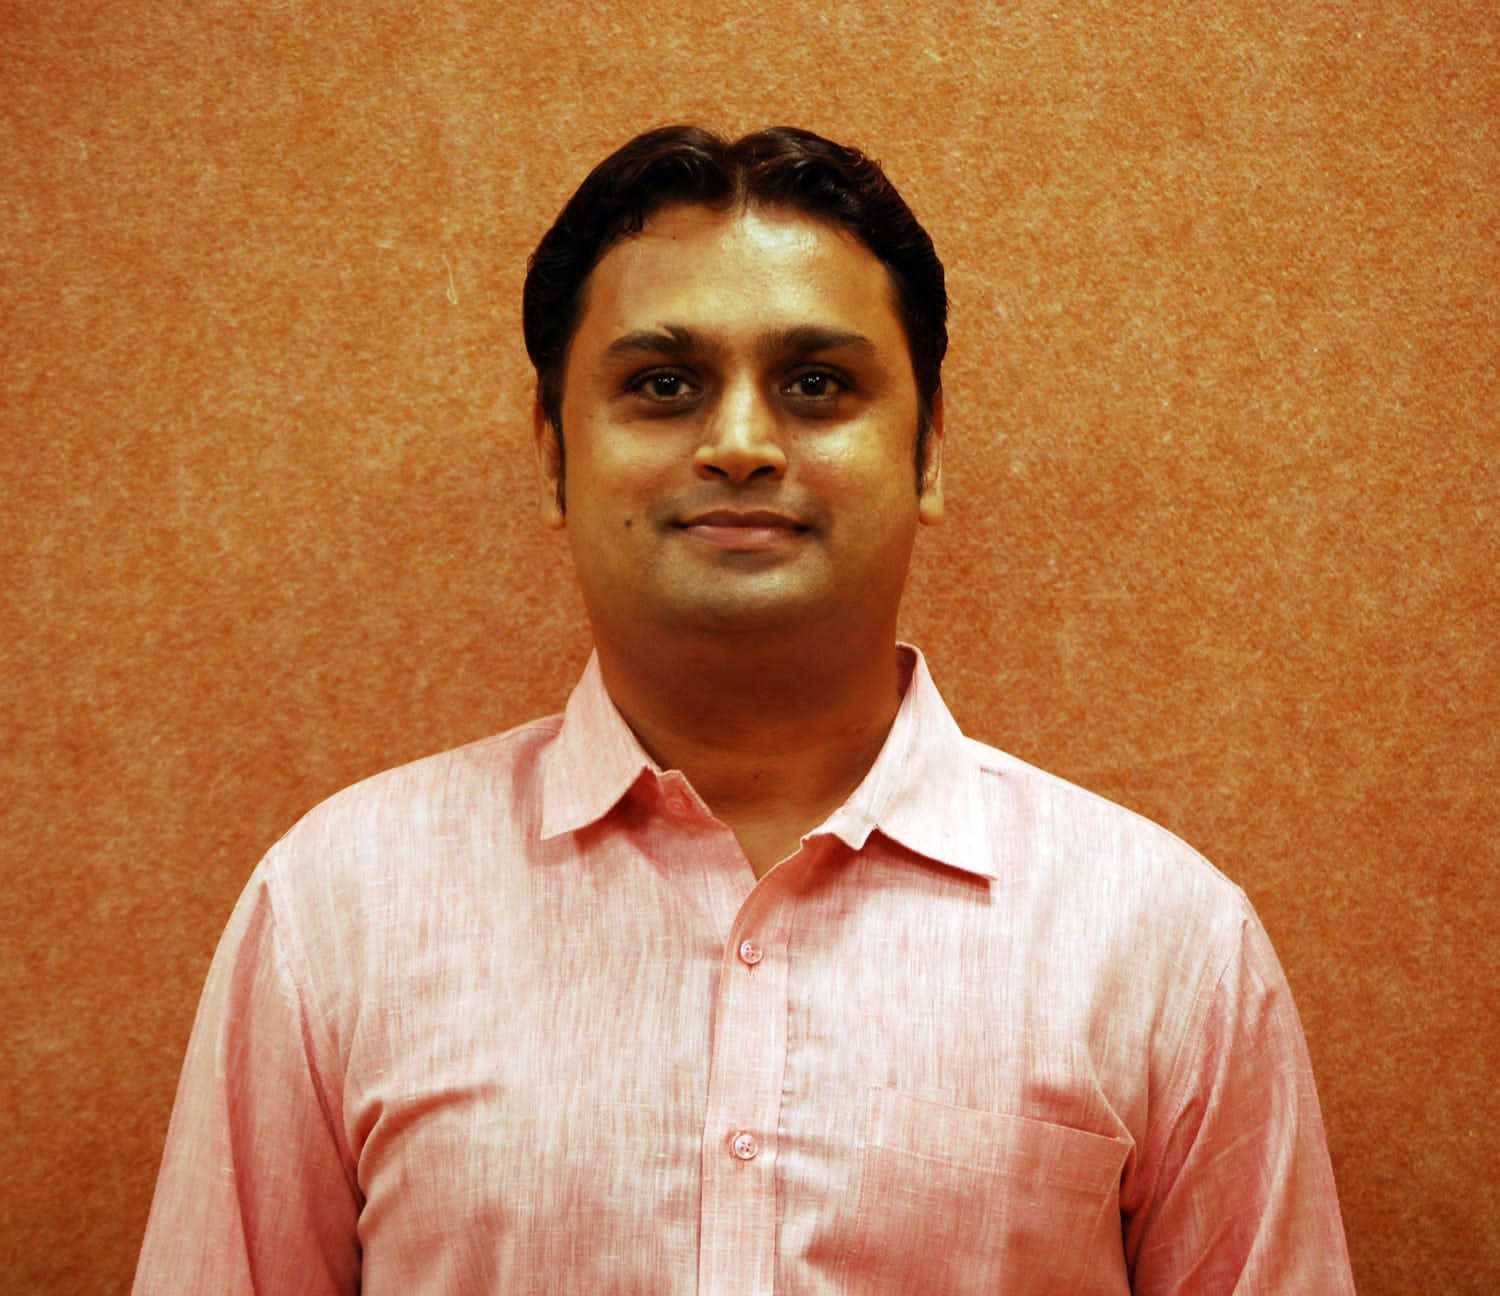
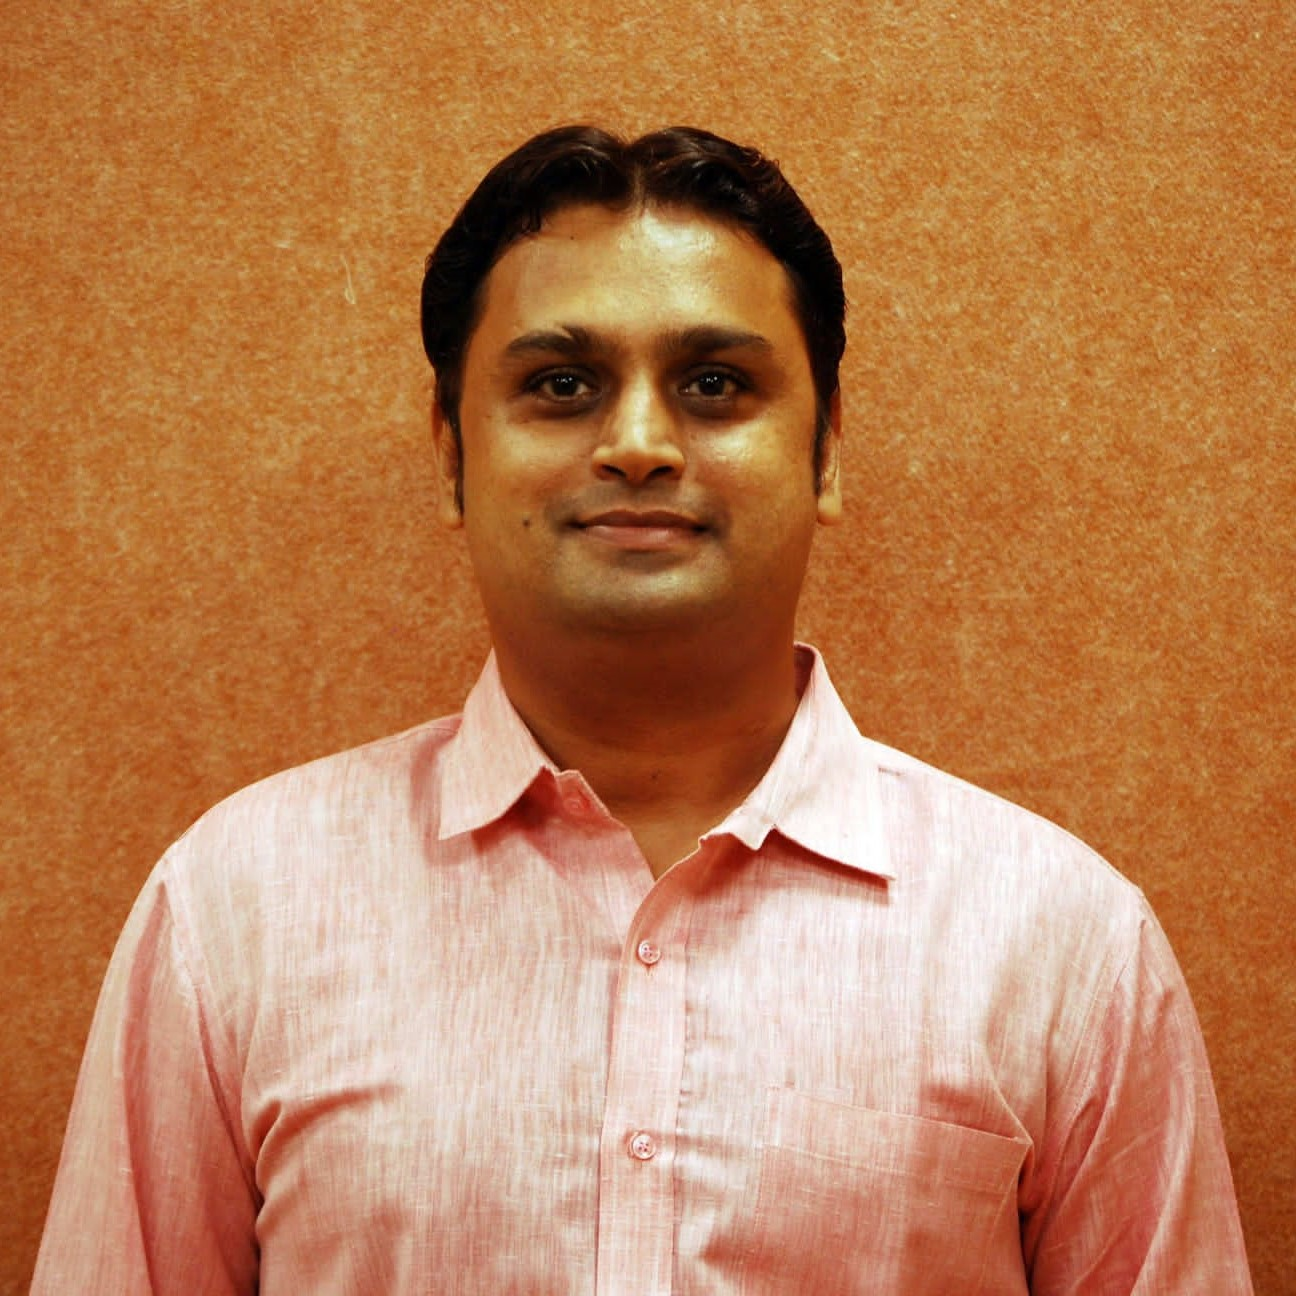
faculty

diff --git a/team.html b/team.html
@@ -62,7 +62,7 @@
                         <a href="index.html" class="nav-item nav-link">Events</a>
                         <a href="index.html#contactUs" class="nav-item nav-link">Contact Us</a>
                     </div>
-                    <!-- <a href="https://htmlcodex.com/startup-company-website-template" class="btn btn-secondary text-light rounded-pill py-2 px-4 ms-3">Join IEEE CS</a> -->
+                    <a href=""  style="background-color: #F9A31A;"  class="btn text-light rounded-pill py-2 px-4 ms-3">Join IEEE</a>
                 </div>
             </nav>
 
@@ -81,9 +81,112 @@
         <!-- Navbar & Hero End -->
 
 
-        <!-- Team Start -->
+<!-- Faculty Team Start -->
+<div class="container-fluid py-5">
+    <div class="container-fluid px-lg-5">
+        <div class="section-title position-relative text-center mb-5 pb-2 wow fadeInUp" data-wow-delay="0.1s">
+            <h6 class="position-relative d-inline ps-4" style="color: #F9A31A;">Our Team</h6>
+            <h2 class="mt-2">Meet Our Faculty Members</h2>
+        </div>
+        <div class="row g-4">
+            <div class="col-lg-4 col-md-6 wow fadeInUp" data-wow-delay="0.1s">
+                <div class="team-item">
+                    <div class="d-flex">
+                        <div class="flex-shrink-0 d-flex flex-column align-items-center mt-4 pt-5"
+                            style="width: 75px;">
+                            <a class="btn btn-square bg-white my-1" href="" style="color: #F9A31A;"> <i
+                                    class="fab fa-facebook-f"></i></a>
+                            <a class="btn btn-square  bg-white my-1" href="" style="color: #F9A31A;"><i
+                                    class="fab fa-twitter"></i></a>
+                            <a class="btn btn-square  bg-white my-1" href="" style="color: #F9A31A;"><i
+                                    class="fab fa-instagram"></i></a>
+                            <a class="btn btn-square bg-white my-1" href="" style="color: #F9A31A;"><i
+                                    class="fab fa-linkedin-in"></i></a>
+                        </div>
+                        <img class="img-fluid rounded w-100" src="img/Keyur sir.JPG" alt="">
+                    </div>
+                    <div class="px-4 py-3">
+                        <h5 class="fw-bold m-0">Dr. Keyur Brahmbhatt</h5>
+                        <small>Faculty Advisor of Computer Scoiety IEEE BVM SB</small>
+                    </div>
+                </div>
+            </div>
+            <div class="col-lg-4 col-md-6 wow fadeInUp" data-wow-delay="0.3s">
+                <div class="team-item">
+                    <div class="d-flex">
+                        <div class="flex-shrink-0 d-flex flex-column align-items-center mt-4 pt-5"
+                            style="width: 75px;">
+                            <a class="btn btn-square bg-white my-1" href="" style="color: #F9A31A;"> <i
+                                    class="fab fa-facebook-f"></i></a>
+                            <a class="btn btn-square  bg-white my-1" href="" style="color: #F9A31A;"><i
+                                    class="fab fa-twitter"></i></a>
+                            <a class="btn btn-square  bg-white my-1" href="" style="color: #F9A31A;"><i
+                                    class="fab fa-instagram"></i></a>
+                            <a class="btn btn-square bg-white my-1" href="" style="color: #F9A31A;"><i
+                                    class="fab fa-linkedin-in"></i></a>
+                        </div>
+                        <img class="img-fluid rounded w-100" src="img/Darshan sir.JPG" alt="">
+                    </div>
+                    <div class="px-4 py-3">
+                        <h5 class="fw-bold m-0">Dr. Darshan Dalwadi</h5>
+                        <small>Branch Counsellor IEEE BVM SB</small>
+                    </div>
+                </div>
+            </div>
+            <div class="col-lg-4 col-md-6 wow fadeInUp" data-wow-delay="0.6s">
+                <div class="team-item">
+                    <div class="d-flex">
+                        <div class="flex-shrink-0 d-flex flex-column align-items-center mt-4 pt-5"
+                            style="width: 75px;">
+                            <a class="btn btn-square bg-white my-1" href="" style="color: #F9A31A;"> <i
+                                    class="fab fa-facebook-f"></i></a>
+                            <a class="btn btn-square  bg-white my-1" href="" style="color: #F9A31A;"><i
+                                    class="fab fa-twitter"></i></a>
+                            <a class="btn btn-square  bg-white my-1" href="" style="color: #F9A31A;"><i
+                                    class="fab fa-instagram"></i></a>
+                            <a class="btn btn-square bg-white my-1" href="" style="color: #F9A31A;"><i
+                                    class="fab fa-linkedin-in"></i></a>
+                        </div>
+                        <img class="img-fluid rounded w-100" src="img/JMR sir.JPG" alt="">
+                    </div>
+                    <div class="px-4 py-3">
+                        <h5 class="fw-bold m-0">Dr. Jagdish Rathod</h5>
+                        <small>Faculty Advisor IEEE BVM SB</small>
+                    </div>
+                </div>
+            </div>
+
+            <div class="col-lg-4 col-md-6 wow fadeInUp" data-wow-delay="0.1s">
+                <div class="team-item">
+                    <div class="d-flex">
+                        <div class="flex-shrink-0 d-flex flex-column align-items-center mt-4 pt-5"
+                            style="width: 75px;">
+                            <a class="btn btn-square bg-white my-1" href="" style="color: #F9A31A;"> <i
+                                    class="fab fa-facebook-f"></i></a>
+                            <a class="btn btn-square  bg-white my-1" href="" style="color: #F9A31A;"><i
+                                    class="fab fa-twitter"></i></a>
+                            <a class="btn btn-square  bg-white my-1" href="" style="color: #F9A31A;"><i
+                                    class="fab fa-instagram"></i></a>
+                            <a class="btn btn-square bg-white my-1" href="" style="color: #F9A31A;"><i
+                                    class="fab fa-linkedin-in"></i></a>
+                        </div>
+                        <img class="img-fluid rounded w-100" src="img/Shimpi sir.JPG" alt="">
+                    </div>
+                    <div class="px-4 py-3">
+                        <h5 class="fw-bold m-0">Dr. Mukesh Shimpi</h5>
+                        <small>Faculty Advisor IEEE BVM SB</small>
+                    </div>
+                </div>
+            </div>
+        </div>
+    </div>
+</div>
+<!--Faculty Team End -->
+
+
+        <!-- Core Team Start -->
         <div class="container-fluid py-5">
-            <div class="container-xxl px-lg-5">
+            <div class="container-fluid px-lg-5">
                 <div class="section-title position-relative text-center mb-5 pb-2 wow fadeInUp" data-wow-delay="0.1s">
                     <h6 class="position-relative d-inline ps-4" style="color: #F9A31A;">Our Team</h6>
                     <h2 class="mt-2">Meet Our Team Members</h2>
@@ -173,7 +276,7 @@
                                 <img class="img-fluid rounded w-100" src="img/Vedant Parmar.jpg" alt="">
                             </div>
                             <div class="px-4 py-3">
-                                <h5 class="fw-bold m-0">Pari Patel</h5>
+                                <h5 class="fw-bold m-0">Vedant Parmar</h5>
                                 <small>Joint-Secretary</small>
                             </div>
                         </div>
@@ -389,7 +492,7 @@
                 </div>
             </div>
         </div>
-        <!-- Team End -->
+        <!--Core Team End -->
 
 
         <!-- Footer Start -->

diff --git a/css/style.css b/css/style.css
@@ -46,9 +46,18 @@ h6,
 
 
 /*** Button ***/
+
+
+.btn:hover{
+    color: var(--dark) !important;
+    background-color: white !important;
+    transition: .3s;
+    outline: 1.5px solid #F9A31A;
+}
 .btn {
     font-weight: 500;
     transition: .5s;
+    
 }
 
 .btn-square {
@@ -80,6 +89,7 @@ h6,
 
 /*** Navbar ***/
 .navbar-light .navbar-nav .nav-link {
+    font-size: 20px !important;
     position: relative;
     margin-left: 25px;
     padding: 35px 0;
@@ -90,7 +100,7 @@ h6,
 
 .sticky-top.navbar-light .navbar-nav .nav-link {
     padding: 20px 0;
-    color: var(--dark) !important;
+    /* color: var(--dark) !important; */
 }
 
 .navbar-light .navbar-nav .nav-link:hover,
@@ -103,12 +113,12 @@ h6,
 }
 
 .navbar-light .navbar-brand img {
-    max-height: 80px;
+    max-height: 85px;
     transition: .5s;
 }
 
 .sticky-top.navbar-light .navbar-brand img {
-    max-height: 45px;
+    max-height: 65px;
 }
 
 @media(max-width:500px){
@@ -523,7 +533,40 @@ section.contact-us {
     background: var(--light);
 }
 
+
 /*** Team ***/
+@media(max-width:500px){
+    .team-item{
+        max-width: 80% !important;
+    }
+}
+@media(max-width:400px){
+    .team-item{
+        max-width: 80% !important;
+    }
+}
+@media(max-width:376px){
+    .team-item{
+        width: 80% !important;
+        
+    }
+}
+@media(max-width:1400px){
+    .team-item{
+        max-width: 90% !important;
+    }
+}
+@media(max-width:2735px){
+    .team-item{
+        max-width: 90% !important;
+    }
+}
+@media(max-width:1000px){
+    .team-item{
+        max-width: 85% !important;
+    }
+}
+
 .team-item {
     position: relative;
     transition: .5s;

diff --git a/index.html b/index.html
@@ -63,6 +63,7 @@
                         <a href="#" class="nav-item nav-link">Events</a>
                         <a href="#contactUs" class="nav-item nav-link">Contact Us</a>
                     </div>
+                    <a href=""  style="background-color: #F9A31A;"  class="btn text-light rounded-pill py-2 px-4 ms-3">Join IEEE</a>
                 </div>
             </nav>
 
